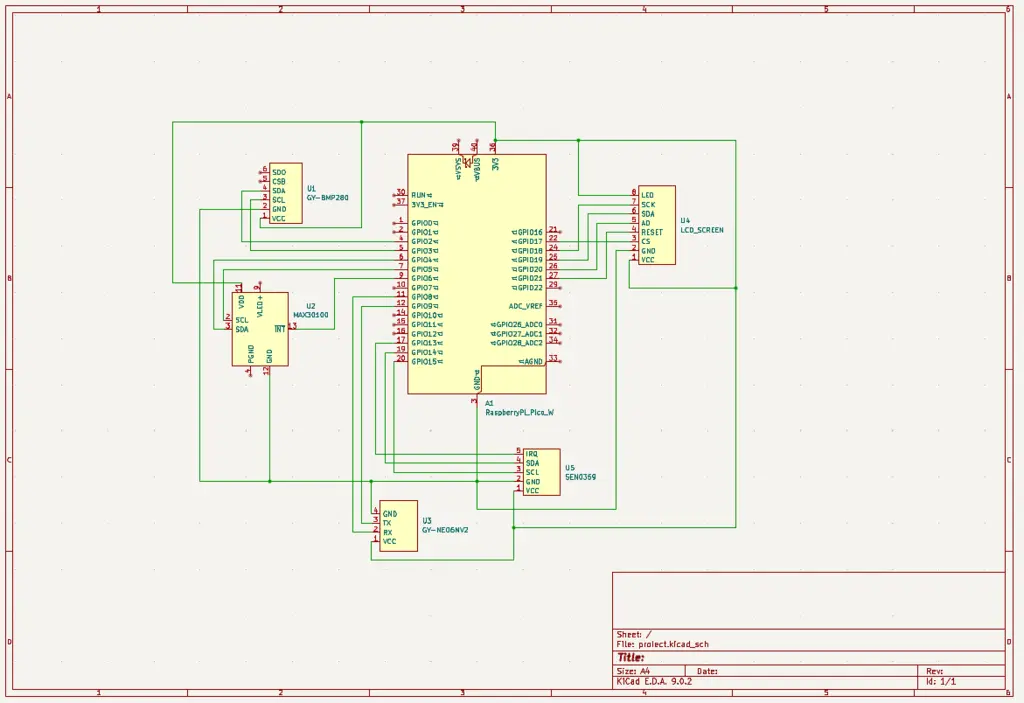
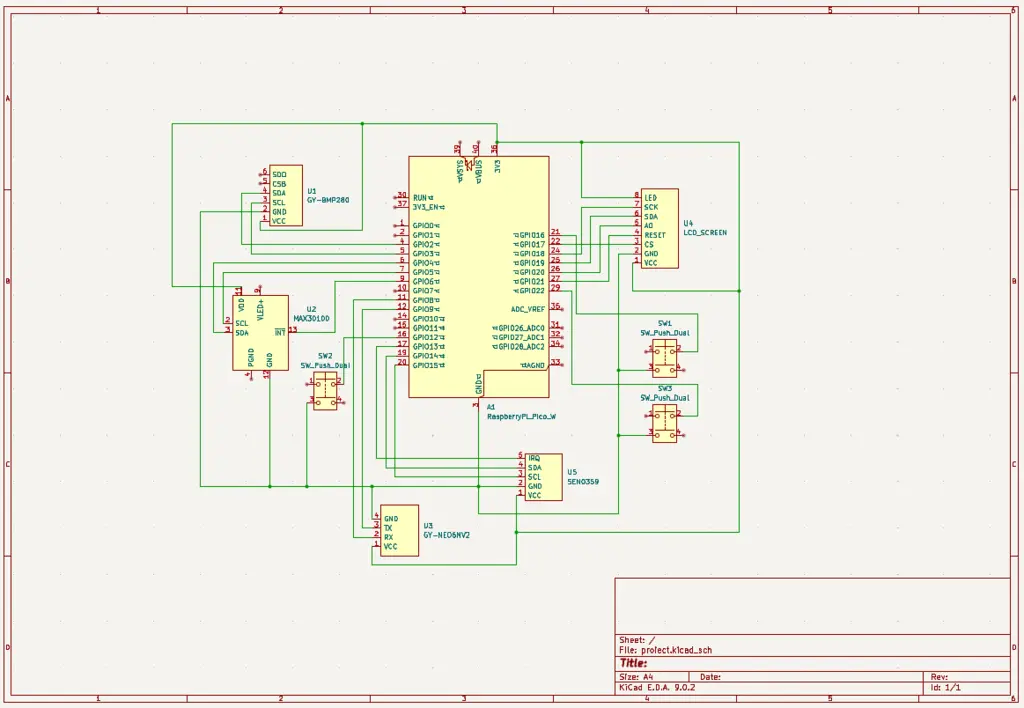
updated the kicad schematic to have the buttons and uploaded a photo of the circuit

Changed region(s): [[0.1562, 0.1494, 0.7188, 0.8065], [0.0, 0.0, 1.0, 1.0], [0.6875, 0.3883, 0.75, 0.4182]]

diff --git a/website/versioned_docs/version-acs_cc/project/2025/rares_andrei.matei/index.md b/website/versioned_docs/version-acs_cc/project/2025/rares_andrei.matei/index.md
@@ -53,12 +53,31 @@ I did the sum of all currents used by the modules to see if the pico can power t
 | LCD Screen | 3 + 20 mA |
 | Total | ~100 mA |
 
-From pico datasheet:
+From pico [datasheet](https://datasheets.raspberrypi.com/picow/pico-2-w-datasheet.pdf#page=10):
 "3V3 is the main 3.3V supply to RP2350 and its I/O, generated by the on-board SMPS. This pin can be used to power
 external circuitry (maximum output current will depend on RP2350 load and VSYS voltage; it is recommended to keep
 the load on this pin under 300mA)."
 
+This table from the rp2350 [datasheet](https://datasheets.raspberrypi.com/rp2350/rp2350-datasheet.pdf#page=1341) also indicates this.
+
 I also uploaded a KiCad schematic of the circuit.
+
+For the wiring I tried to match the wires:
+
+Orange - VCC
+
+Gray - GND
+
+Green - SCL / SCK / TX
+
+Blue - SDA / RX
+
+Red - CS and RESET from the LCD screen
+
+Yellow - A0 from the LDC screen / INT from MAX30100
+
+Black - Button pins
+
 
 *Week 19 - 25 May*
 
@@ -85,6 +104,12 @@ Software week
 ## Schematics
 
 ![Schematic_image](schematic.webp)
+
+## Device
+
+This is the device's circuit. I need to make a small case to hide the wires and the components, except the screen, fingerprint sensor and pulse sensor.
+
+![Circuit_image](circuit.webp)
 
 ## Bill of Materials
 
